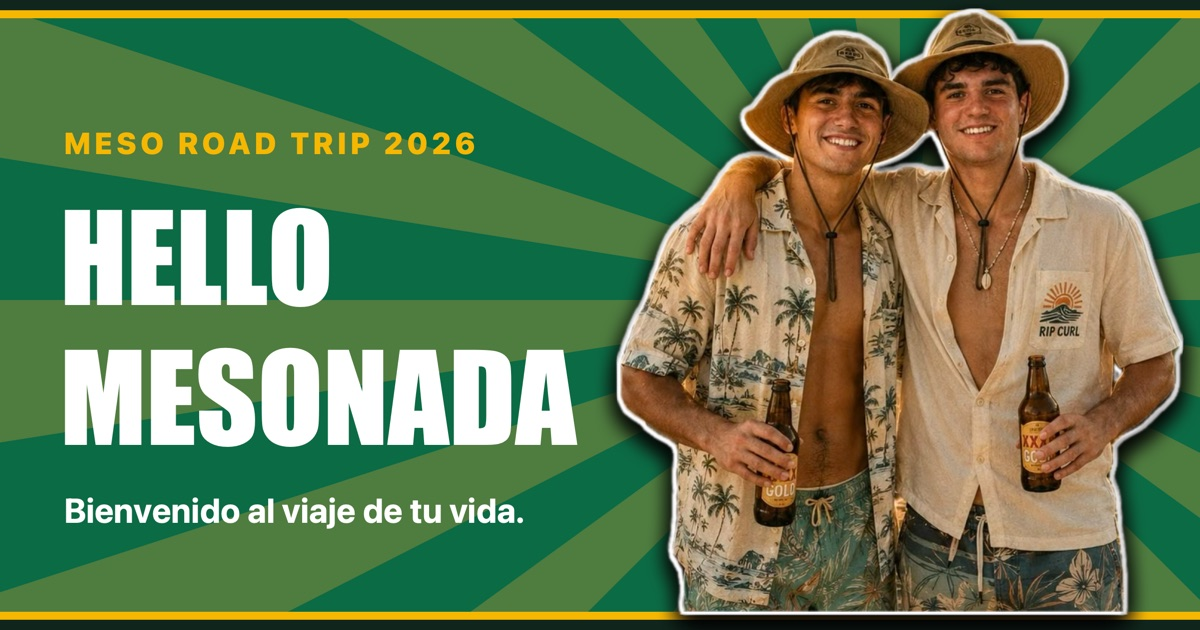
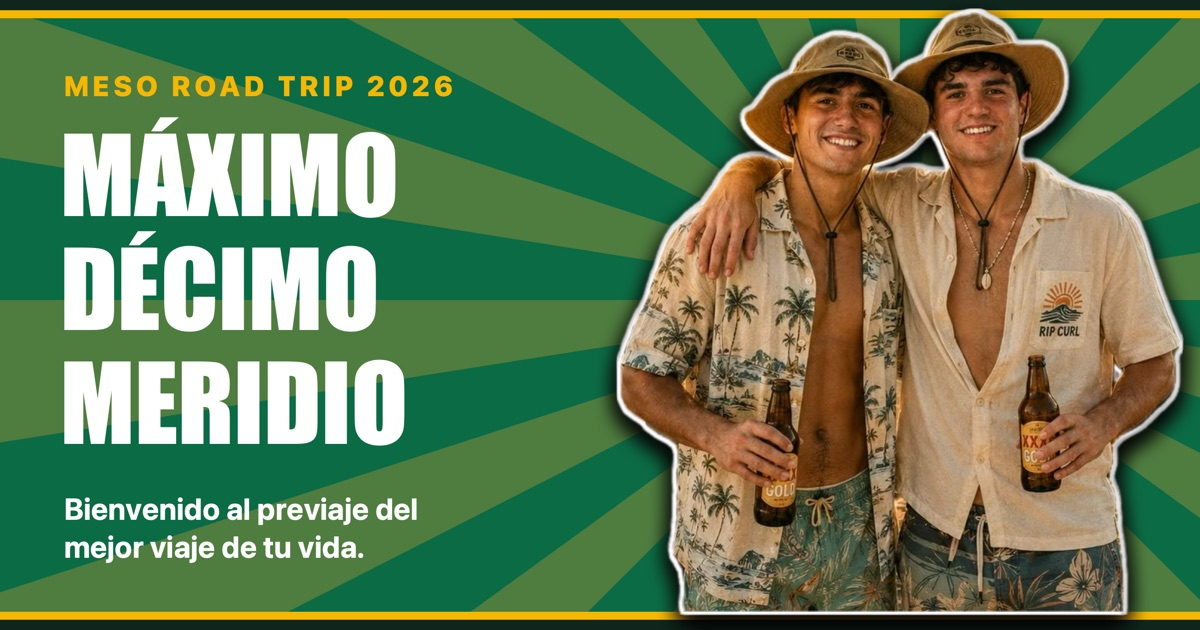
Intro: «Máximo Décimo Meridio, bienvenido al previaje del mejor viaje de tu vida»

Changed region(s): [[0.0308, 0.181, 0.4933, 0.7238], [0.0308, 0.7841, 0.4317, 0.9048], [0.0308, 0.1206, 0.4008, 0.1508]]

diff --git a/index.html b/index.html
@@ -7,11 +7,11 @@
   <meta name="theme-color" content="#0B6B45">
   <!-- Sin «bingo» en título ni vista previa: el juego es sorpresa hasta el 1 dic. -->
   <title>Meso Road Trip 2026</title>
-  <meta name="description" content="Hello Mesonada. Bienvenido al viaje de tu vida.">
+  <meta name="description" content="Máximo Décimo Meridio, bienvenido al previaje del mejor viaje de tu vida.">
   <meta property="og:type" content="website">
   <meta property="og:url" content="https://aussie-bingo-meso.vercel.app/">
-  <meta property="og:title" content="Hello Mesonada 🇦🇺">
-  <meta property="og:description" content="Bienvenido al viaje de tu vida. Meso Road Trip 2026.">
+  <meta property="og:title" content="Máximo Décimo Meridio 🇦🇺">
+  <meta property="og:description" content="Bienvenido al previaje del mejor viaje de tu vida. Meso Road Trip 2026.">
   <meta property="og:image" content="https://aussie-bingo-meso.vercel.app/assets/og.jpg">
   <meta property="og:image:width" content="1200">
   <meta property="og:image:height" content="630">

diff --git a/js/data.js b/js/data.js
@@ -395,8 +395,8 @@ export const PRELAUNCH = {
         position: 'center 30%',
       },
       kicker: 'Meso Road Trip 2026',
-      title: 'Hello Mesonada',
-      text: 'Bienvenido al viaje de tu vida.',
+      title: 'Máximo Décimo Meridio',
+      text: 'Bienvenido al previaje del mejor viaje de tu vida.',
       seconds: 7,
       track: 'spotify:track:3ZZq9396zv8pcn5GYVhxUi', // Down Under · Men At Work
     },
